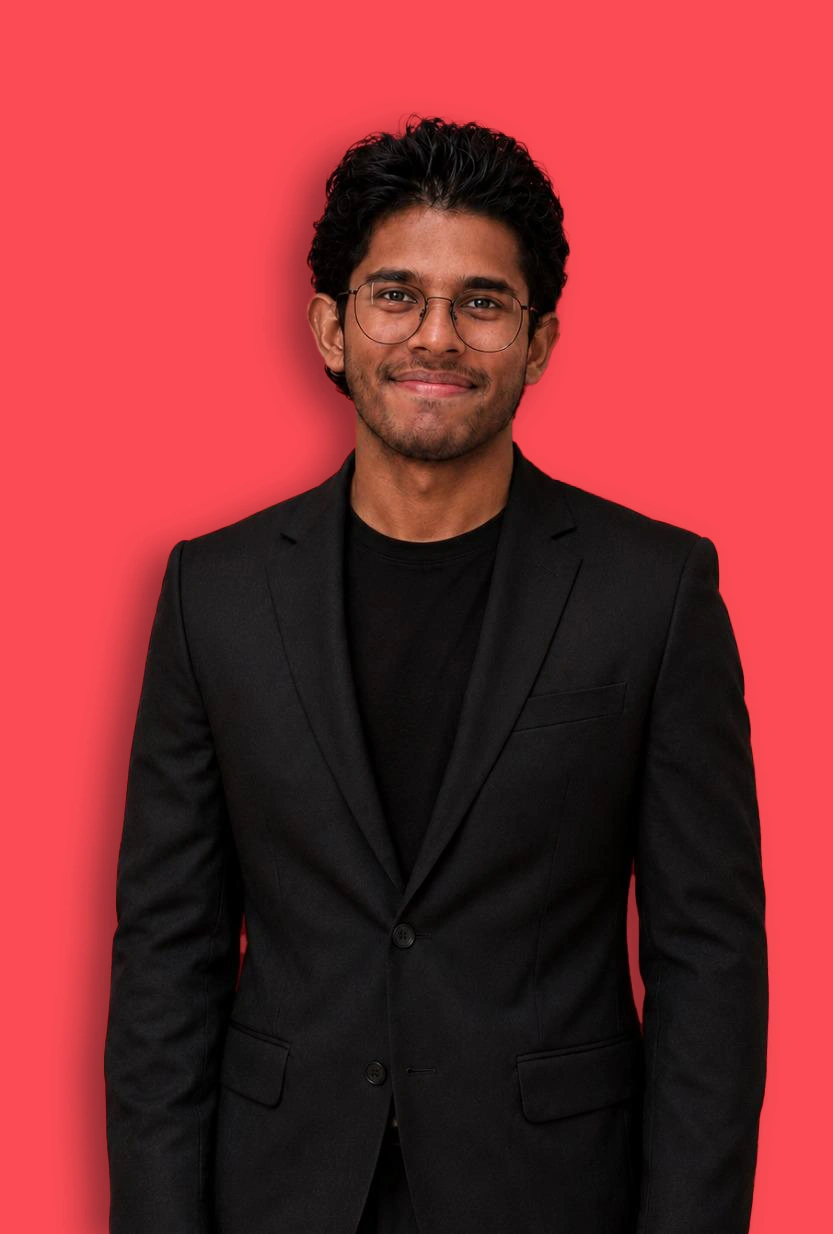
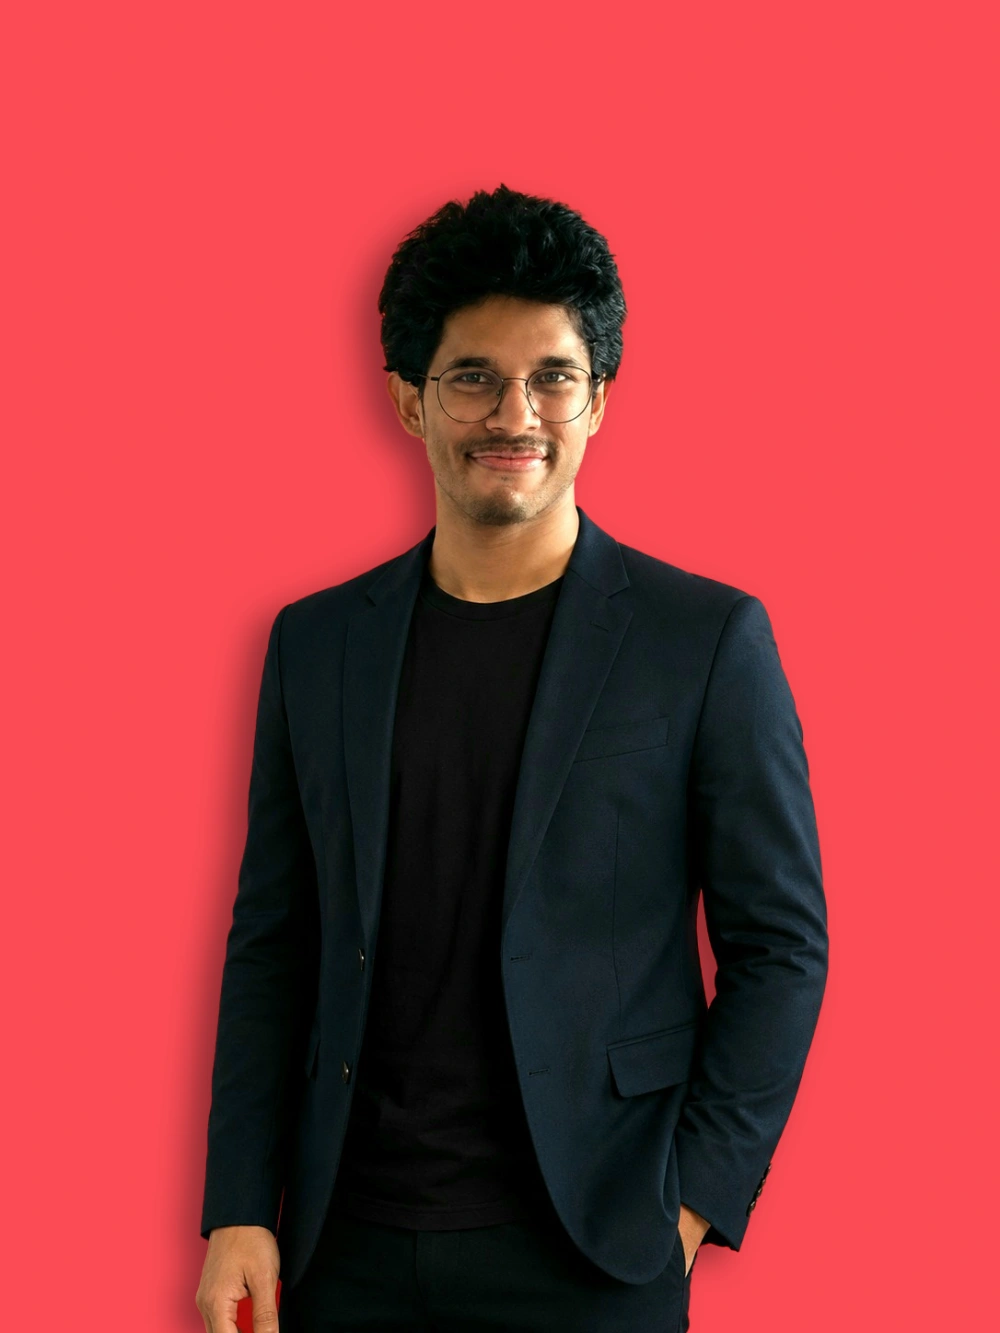
image change

diff --git a/src/components/about/TeamSection.tsx b/src/components/about/TeamSection.tsx
@@ -30,7 +30,7 @@ const team = [
     description:
       "Brings the psychology. Ensures every product is built around how people actually think, feel, and behave — not just how they're assumed to.",
     tags: ["User Psychology", "Behavioural UX", "Research"],
-    image: "/team-ranan.webp",
+    image: "/team-ranan1.webp",
     accent: "#FB4B54",
     linkedin: "https://www.linkedin.com/in/ranan-hewawasam-3b3402243/",
   },